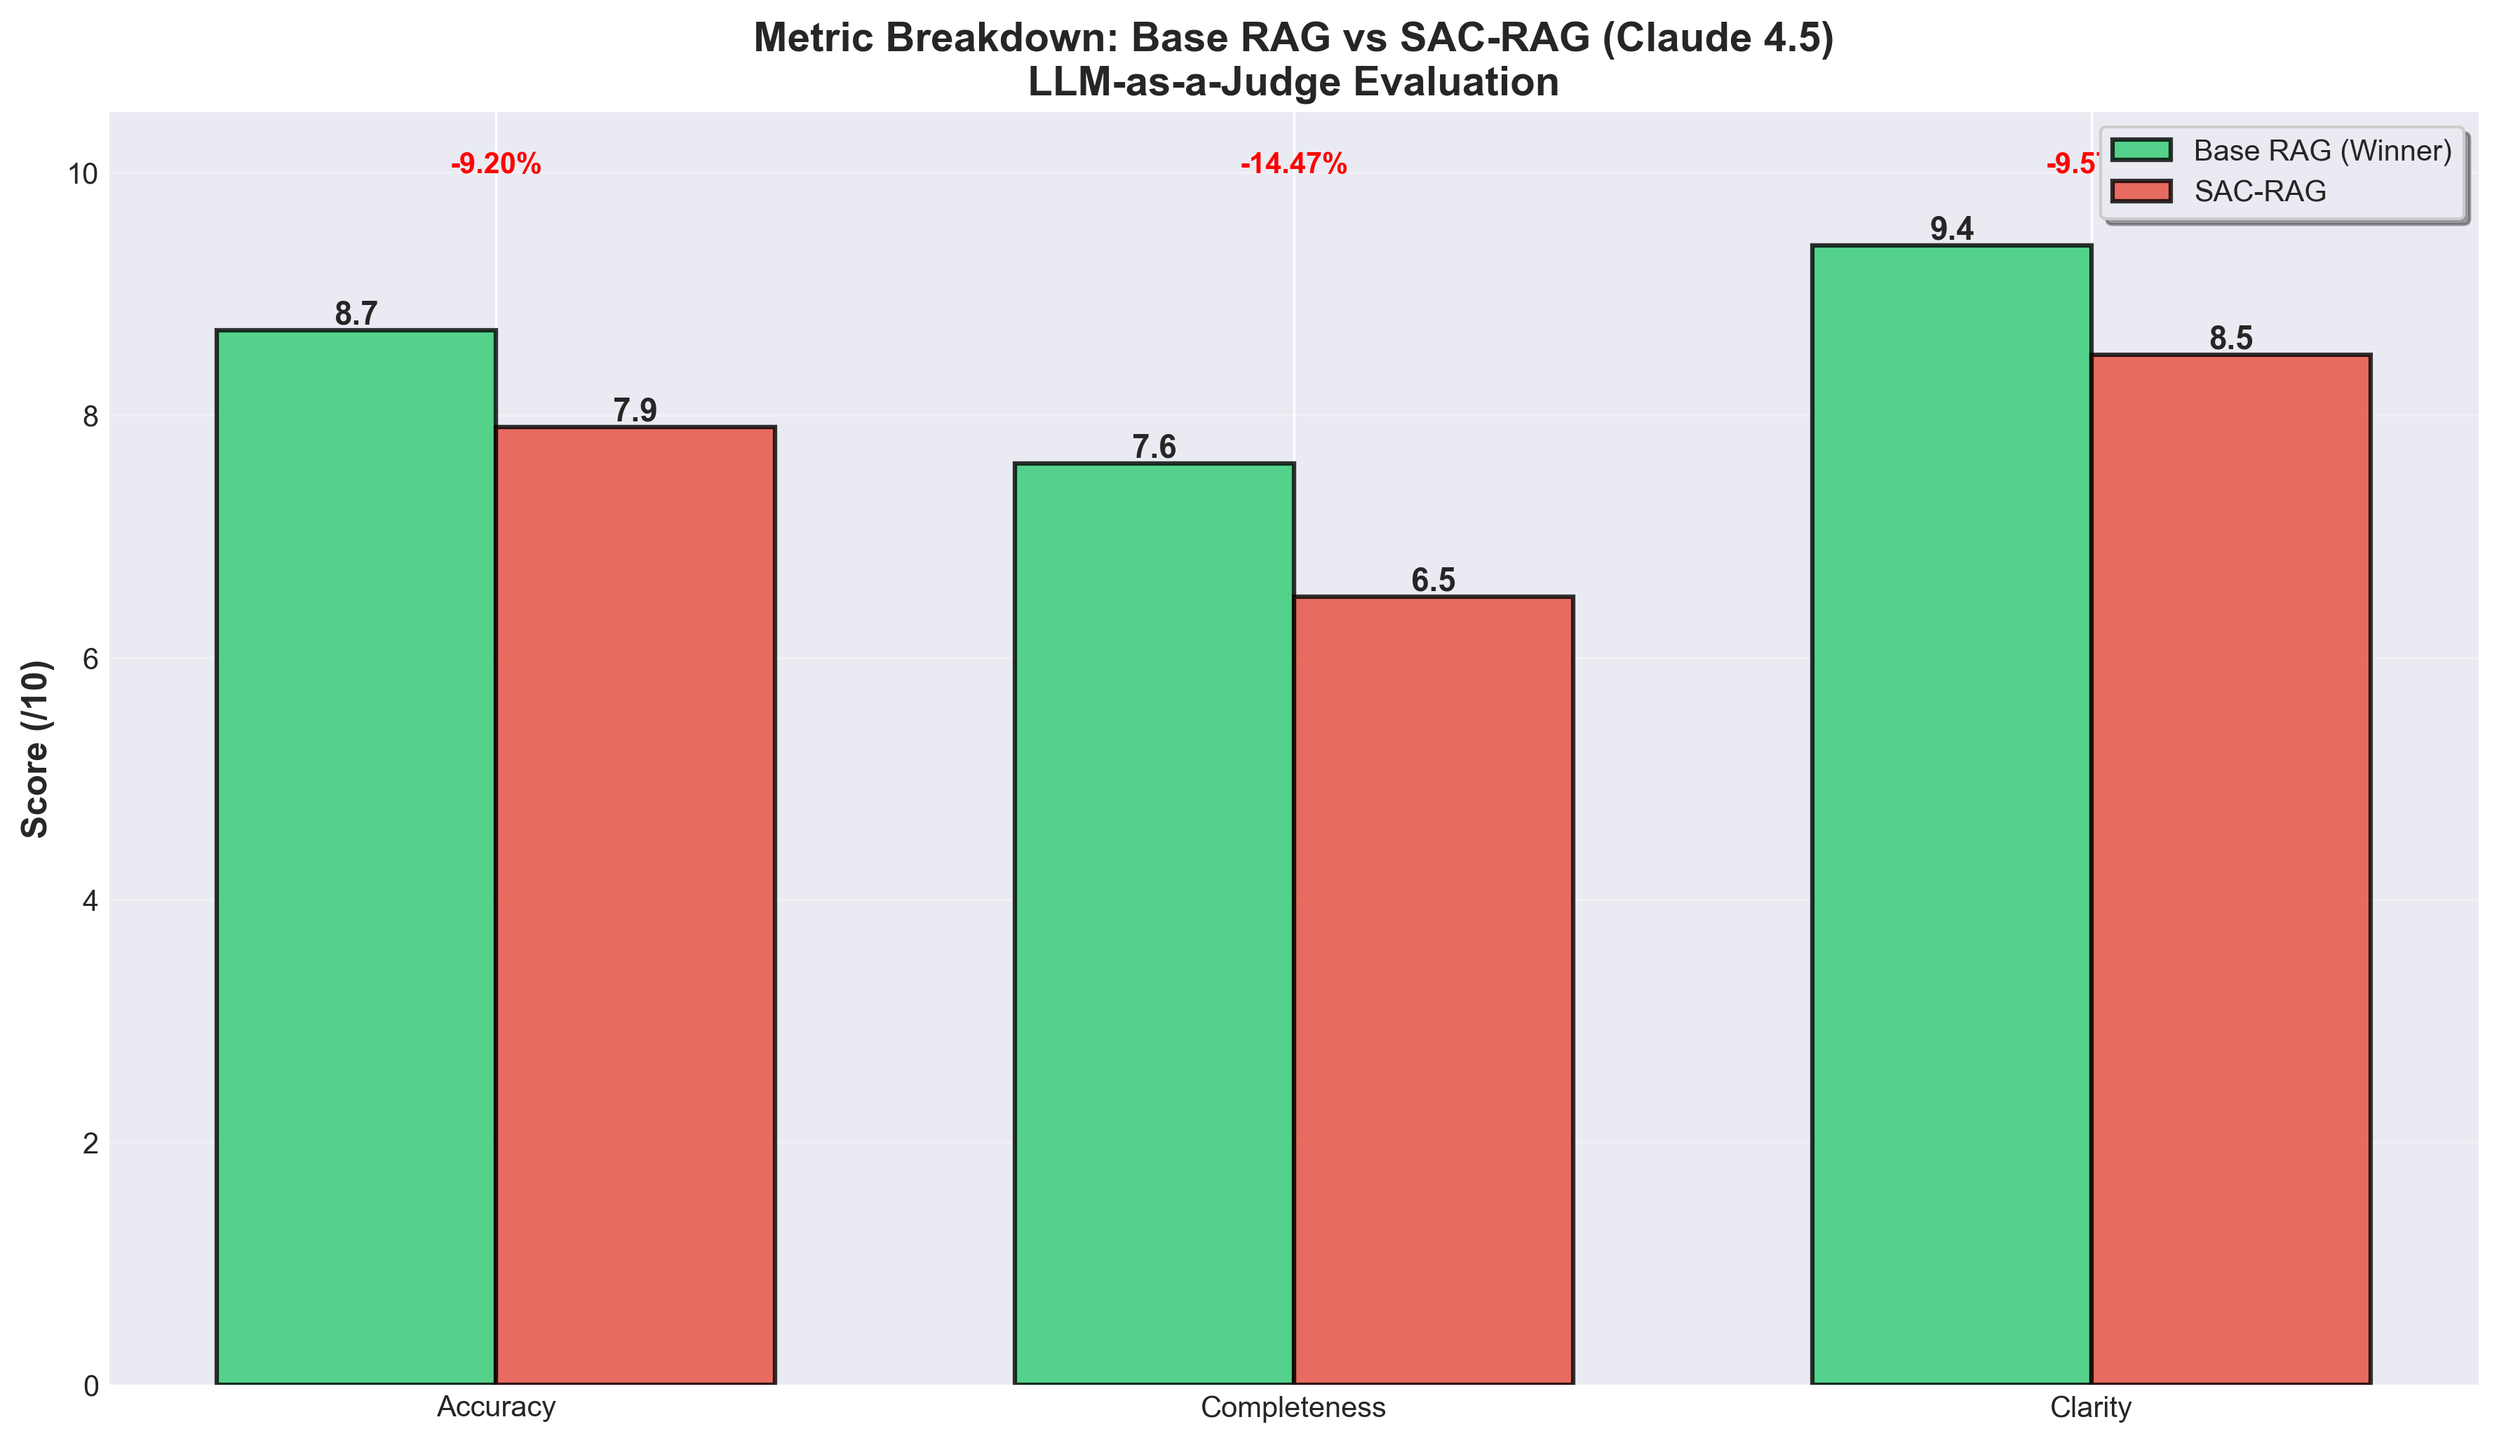
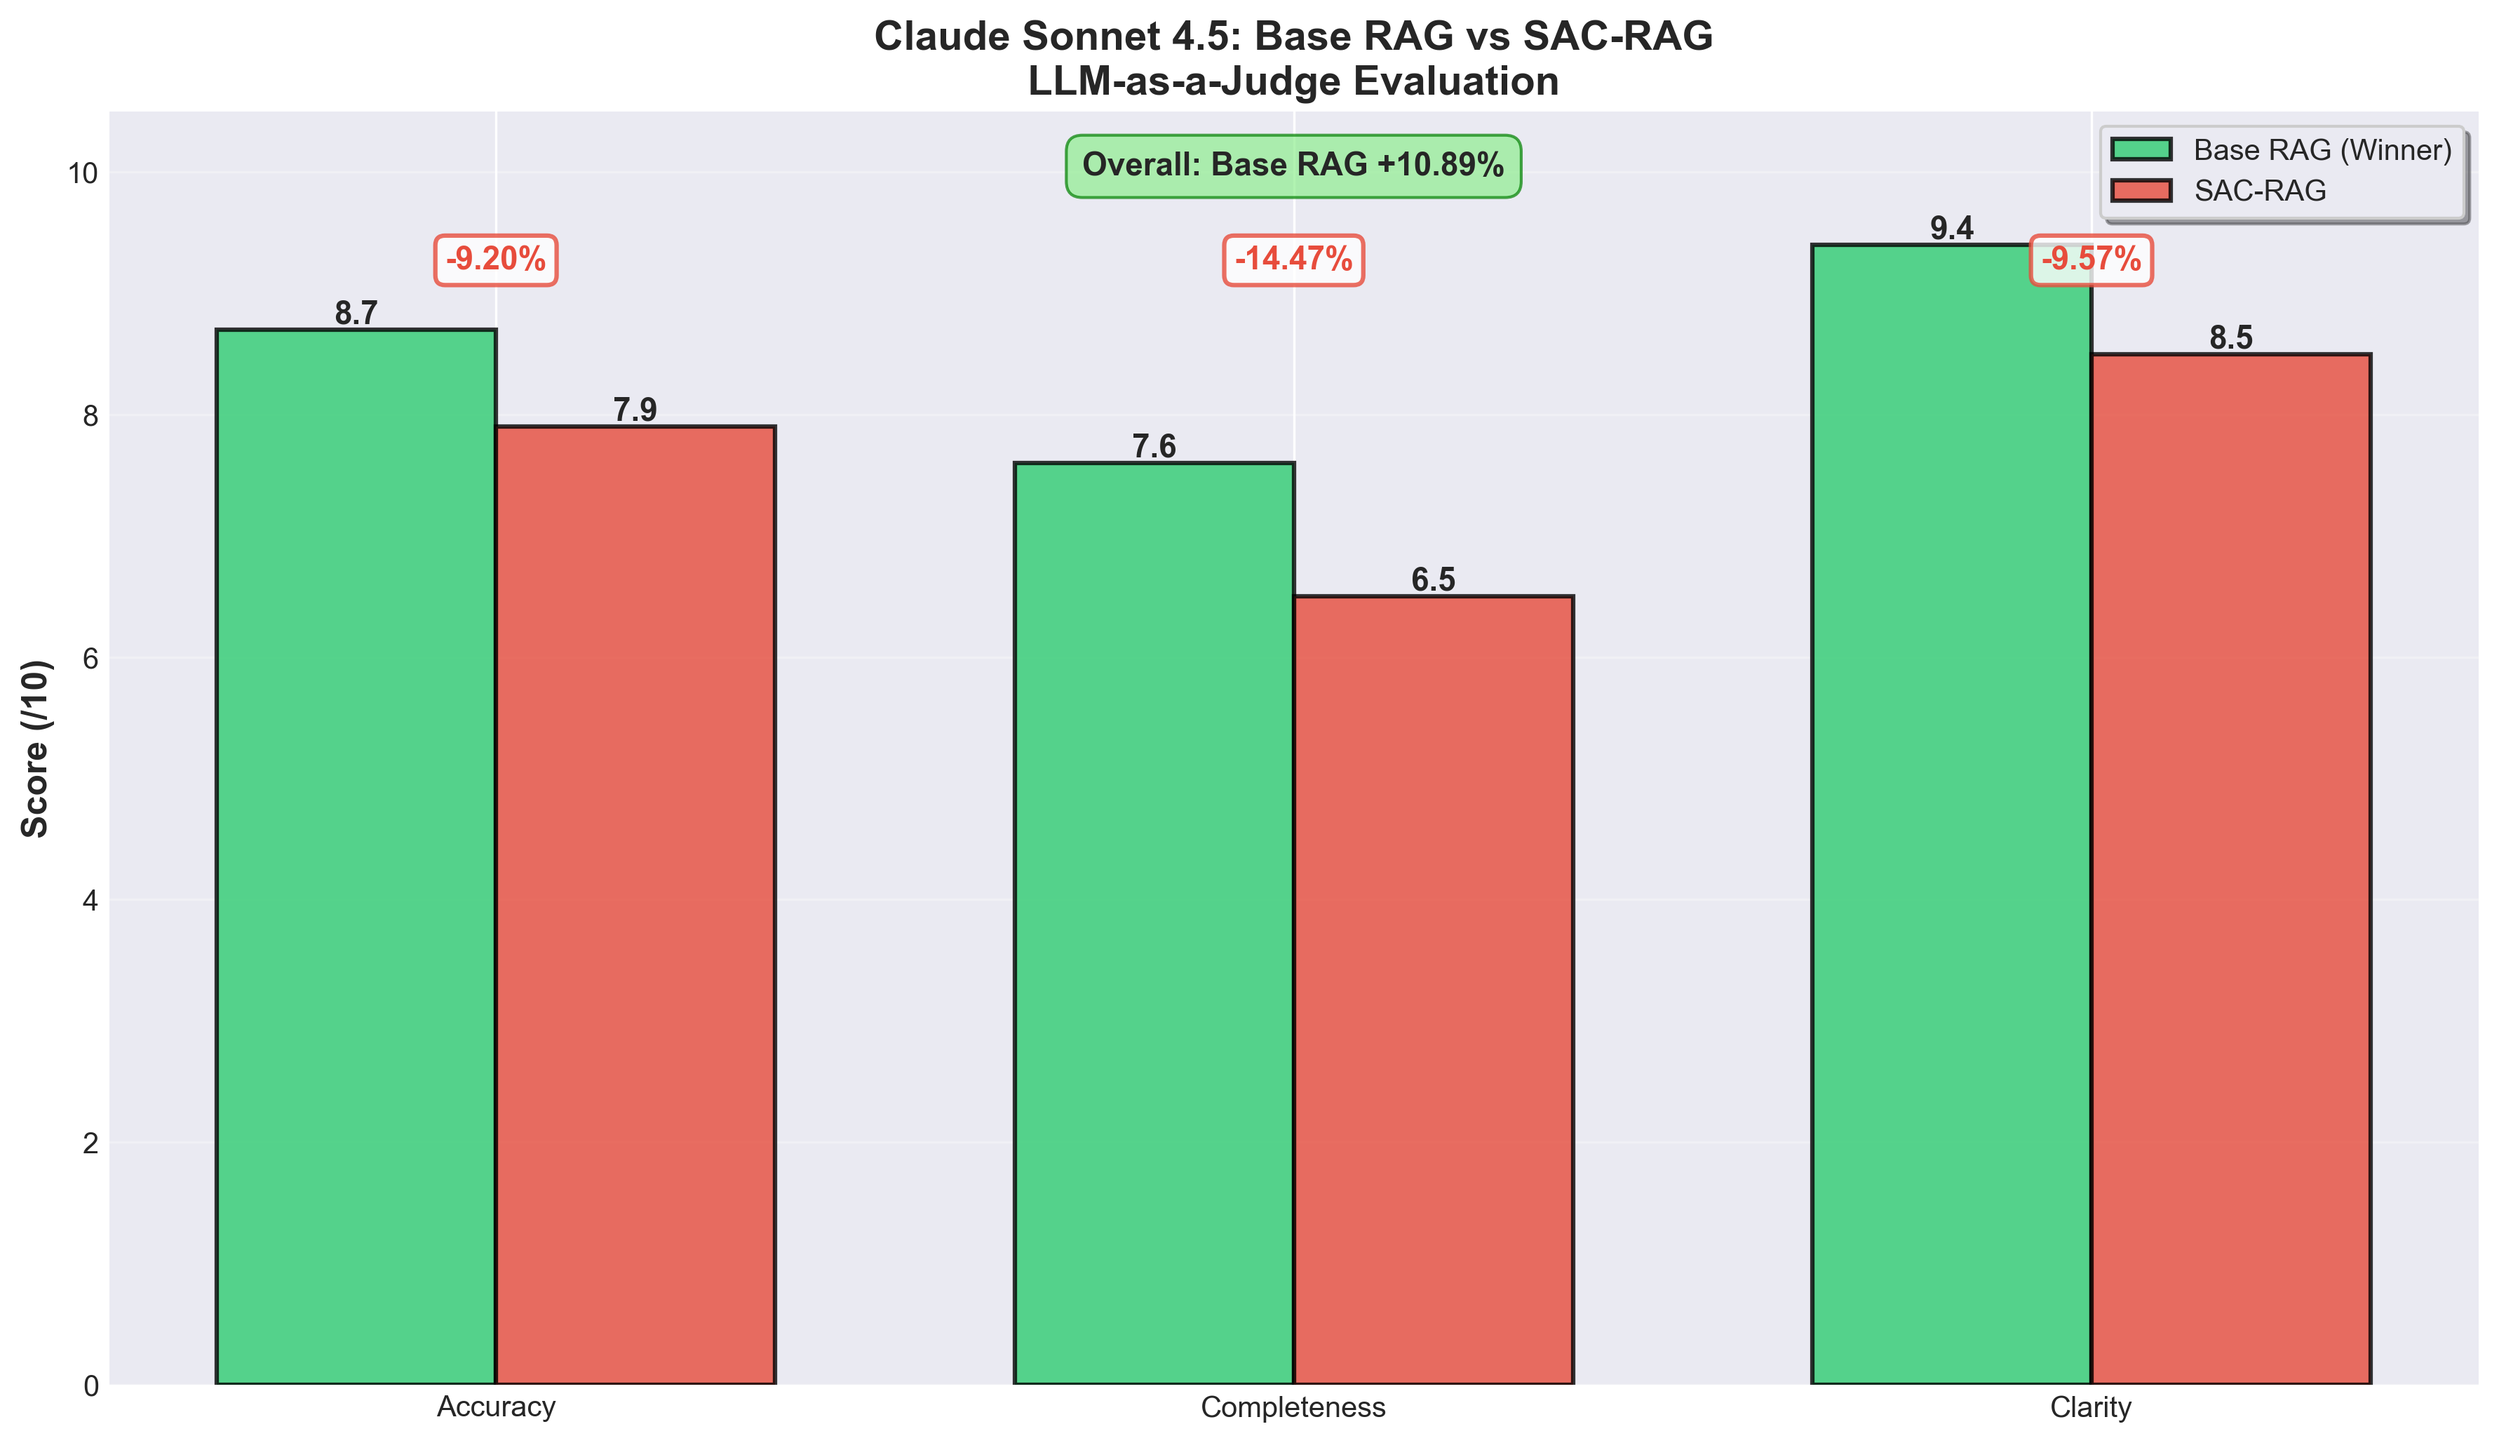
Add thesis methodology visualizations and metric breakdown charts

diff --git a/generate_claude35_metric_breakdown.py b/generate_claude35_metric_breakdown.py
@@ -1,0 +1,90 @@
+"""
+Generate Metric Breakdown Visualization for Claude 3.5 Sonnet
+SAC-RAG vs Base RAG Comparison
+"""
+
+import matplotlib.pyplot as plt
+import numpy as np
+from pathlib import Path
+
+# Set publication-quality style
+plt.style.use('seaborn-v0_8-darkgrid')
+plt.rcParams['figure.figsize'] = (12, 7)
+plt.rcParams['font.size'] = 11
+plt.rcParams['axes.labelsize'] = 12
+plt.rcParams['axes.titlesize'] = 14
+plt.rcParams['xtick.labelsize'] = 10
+plt.rcParams['ytick.labelsize'] = 10
+plt.rcParams['legend.fontsize'] = 10
+
+# Data from llm_judge_golden_comparison_CLAUDE35.csv
+metrics = ['Accuracy', 'Completeness', 'Clarity']
+base_rag_scores = [9.4, 7.6, 9.3]
+sac_rag_scores = [9.3, 8.4, 9.4]
+
+# Calculate performance gaps
+gaps = [((sac - base) / base * 100) for sac, base in zip(sac_rag_scores, base_rag_scores)]
+
+# Create figure
+fig, ax = plt.subplots(figsize=(12, 7))
+
+x = np.arange(len(metrics))
+width = 0.35
+
+# SAC-RAG won overall, so it's the winner (green)
+# Base RAG is comparison (blue)
+bars1 = ax.bar(x - width/2, base_rag_scores, width, label='Base RAG', 
+               color='#3498db', alpha=0.8, edgecolor='black', linewidth=1.5)
+bars2 = ax.bar(x + width/2, sac_rag_scores, width, label='SAC-RAG (Winner)', 
+               color='#2ecc71', alpha=0.8, edgecolor='black', linewidth=1.5)
+
+ax.set_ylabel('Score (/10)', fontweight='bold')
+ax.set_title('Claude 3.5 Sonnet: SAC-RAG vs Base RAG\nLLM-as-a-Judge Evaluation', 
+             fontweight='bold', fontsize=14)
+ax.set_xticks(x)
+ax.set_xticklabels(metrics)
+ax.set_ylim(0, 10.5)
+ax.legend(frameon=True, shadow=True)
+ax.grid(axis='y', alpha=0.3)
+
+# Add value labels on bars
+for bars in [bars1, bars2]:
+    for bar in bars:
+        height = bar.get_height()
+        ax.text(bar.get_x() + bar.get_width()/2., height,
+                f'{height:.1f}',
+                ha='center', va='bottom', fontweight='bold')
+
+# Add overall result annotation (top)
+ax.text(0.5, 0.95, 'Overall: SAC-RAG +3.04%', 
+        transform=ax.transAxes, fontsize=11, 
+        fontweight='bold', ha='center',
+        bbox=dict(boxstyle='round,pad=0.5', facecolor='lightgreen', 
+                  edgecolor='green', alpha=0.7))
+
+# Add performance gap annotations below the banner
+gap_labels = [f'{gap:+.2f}%' for gap in gaps]
+gap_colors = ['#e74c3c' if gap < 0 else '#2ecc71' for gap in gaps]
+
+for i, (gap_label, color) in enumerate(zip(gap_labels, gap_colors)):
+    # Position below the overall banner
+    ax.text(i, 9.2, gap_label, ha='center', fontsize=11, 
+            color=color, fontweight='bold',
+            bbox=dict(boxstyle='round,pad=0.3', facecolor='white', 
+                     edgecolor=color, alpha=0.8, linewidth=1.5))
+
+plt.tight_layout()
+
+# Save to thesis_visualizations
+output_path = Path('thesis_visualizations') / '03_metric_breakdown_claude35.png'
+plt.savefig(output_path, dpi=300, bbox_inches='tight')
+print(f"✓ Saved: {output_path}")
+plt.close()
+
+print("\nMetric Breakdown Summary (Claude 3.5 Sonnet):")
+print("=" * 60)
+for metric, base, sac, gap in zip(metrics, base_rag_scores, sac_rag_scores, gaps):
+    winner = "SAC-RAG" if gap > 0 else "Base RAG" if gap < 0 else "Tie"
+    print(f"{metric:15s}: Base={base:.1f}, SAC={sac:.1f}, Gap={gap:+.2f}% ({winner})")
+print(f"\nOverall Average: Base=8.77, SAC=9.03, Gap=+3.04% (SAC-RAG wins)")
+print("=" * 60)

diff --git a/generate_claude45_metric_breakdown.py b/generate_claude45_metric_breakdown.py
@@ -1,0 +1,90 @@
+"""
+Generate Metric Breakdown Visualization for Claude Sonnet 4.5
+Base RAG vs SAC-RAG Comparison
+"""
+
+import matplotlib.pyplot as plt
+import numpy as np
+from pathlib import Path
+
+# Set publication-quality style
+plt.style.use('seaborn-v0_8-darkgrid')
+plt.rcParams['figure.figsize'] = (12, 7)
+plt.rcParams['font.size'] = 11
+plt.rcParams['axes.labelsize'] = 12
+plt.rcParams['axes.titlesize'] = 14
+plt.rcParams['xtick.labelsize'] = 10
+plt.rcParams['ytick.labelsize'] = 10
+plt.rcParams['legend.fontsize'] = 10
+
+# Data from original generate_thesis_visualizations.py
+metrics = ['Accuracy', 'Completeness', 'Clarity']
+base_rag_scores = [8.70, 7.60, 9.40]
+sac_rag_scores = [7.90, 6.50, 8.50]
+
+# Calculate performance gaps
+gaps = [((sac - base) / base * 100) for sac, base in zip(sac_rag_scores, base_rag_scores)]
+
+# Create figure
+fig, ax = plt.subplots(figsize=(12, 7))
+
+x = np.arange(len(metrics))
+width = 0.35
+
+# Base RAG won overall, so it's the winner (green)
+# SAC-RAG is comparison (red)
+bars1 = ax.bar(x - width/2, base_rag_scores, width, label='Base RAG (Winner)', 
+               color='#2ecc71', alpha=0.8, edgecolor='black', linewidth=1.5)
+bars2 = ax.bar(x + width/2, sac_rag_scores, width, label='SAC-RAG', 
+               color='#e74c3c', alpha=0.8, edgecolor='black', linewidth=1.5)
+
+ax.set_ylabel('Score (/10)', fontweight='bold')
+ax.set_title('Claude Sonnet 4.5: Base RAG vs SAC-RAG\nLLM-as-a-Judge Evaluation', 
+             fontweight='bold', fontsize=14)
+ax.set_xticks(x)
+ax.set_xticklabels(metrics)
+ax.set_ylim(0, 10.5)
+ax.legend(frameon=True, shadow=True)
+ax.grid(axis='y', alpha=0.3)
+
+# Add value labels on bars
+for bars in [bars1, bars2]:
+    for bar in bars:
+        height = bar.get_height()
+        ax.text(bar.get_x() + bar.get_width()/2., height,
+                f'{height:.1f}',
+                ha='center', va='bottom', fontweight='bold')
+
+# Add overall result annotation (top)
+ax.text(0.5, 0.95, 'Overall: Base RAG +10.89%', 
+        transform=ax.transAxes, fontsize=11, 
+        fontweight='bold', ha='center',
+        bbox=dict(boxstyle='round,pad=0.5', facecolor='lightgreen', 
+                  edgecolor='green', alpha=0.7))
+
+# Add performance gap annotations below the banner
+gap_labels = [f'{gap:+.2f}%' for gap in gaps]
+gap_colors = ['#e74c3c' if gap < 0 else '#2ecc71' for gap in gaps]
+
+for i, (gap_label, color) in enumerate(zip(gap_labels, gap_colors)):
+    # Position below the overall banner
+    ax.text(i, 9.2, gap_label, ha='center', fontsize=11, 
+            color=color, fontweight='bold',
+            bbox=dict(boxstyle='round,pad=0.3', facecolor='white', 
+                     edgecolor=color, alpha=0.8, linewidth=1.5))
+
+plt.tight_layout()
+
+# Save to thesis_visualizations
+output_path = Path('thesis_visualizations') / '03_metric_breakdown.png'
+plt.savefig(output_path, dpi=300, bbox_inches='tight')
+print(f"Saved: {output_path}")
+plt.close()
+
+print("\nMetric Breakdown Summary (Claude Sonnet 4.5):")
+print("=" * 60)
+for metric, base, sac, gap in zip(metrics, base_rag_scores, sac_rag_scores, gaps):
+    winner = "Base RAG" if gap < 0 else "SAC-RAG" if gap > 0 else "Tie"
+    print(f"{metric:15s}: Base={base:.1f}, SAC={sac:.1f}, Gap={gap:+.2f}% ({winner})")
+print(f"\nOverall Average: Base=8.57, SAC=7.63, Gap=-10.89% (Base RAG wins)")
+print("=" * 60)
